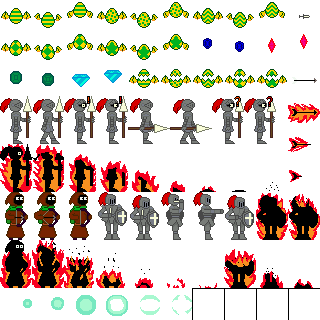
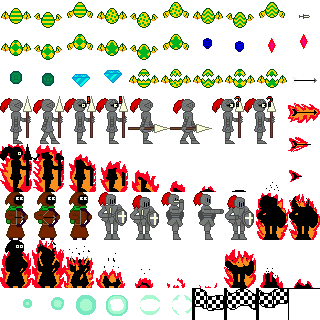
started with the flagpole

Changed region(s): [[0.5938, 0.875, 0.9062, 1.0]]

diff --git a/tamagon/src/tamagon/Flagpole.java b/tamagon/src/tamagon/Flagpole.java
@@ -1,0 +1,43 @@
+package tamagon;
+
+import java.awt.Graphics;
+
+public class Flagpole extends Entity {
+	
+	/**
+	 * Animation variables
+	 */
+	private int animationFrames = 0, maxFrame = 5, maxIndex = 2, animationIndex = 0;
+
+	/**
+	 * Ends the level
+	 * 
+	 * @param x
+	 * @param y
+	 * @param w
+	 * @param h
+	 */
+	public Flagpole(int x, int y, int w, int h) {
+		super(x, y, w, h);
+		// TODO Auto-generated constructor stub
+	}
+
+	@Override
+	public void render(Graphics g) {
+		animationFrames++;
+		
+		// Animation frames
+		if (animationFrames > maxFrame) {
+			animationFrames = 0;
+			animationIndex++;
+			if (animationIndex > maxIndex) {
+				animationIndex = 0;
+			}
+		}
+		
+		// Draw the sprite
+		g.drawImage(SpriteLoader.flagpole[animationIndex], (x * Game.scale - Camera.x), y * Game.scale - Camera.y, w * Game.scale,
+						h * Game.scale, null);
+	}
+
+}

diff --git a/tamagon/src/tamagon/SpriteLoader.java b/tamagon/src/tamagon/SpriteLoader.java
@@ -55,6 +55,11 @@ public class SpriteLoader {
 	static BufferedImage[] shieldParticle;
 	
 	/**
+	 * The flag pole finishes the round
+	 */
+	static BufferedImage[] flagpole;
+	
+	/**
 	 * Loads all entities sprite once
 	 */
 	public SpriteLoader() {
@@ -224,5 +229,13 @@ public class SpriteLoader {
 		shieldParticle[3] = entitySheet.getSprite(32*3, 288, 32, 32);
 		shieldParticle[4] = entitySheet.getSprite(32*4, 288, 32, 32);
 		shieldParticle[5] = entitySheet.getSprite(32*5, 288, 32, 32);
+		
+		
+		
+		//Flag pole
+		flagpole = new BufferedImage[3];
+		flagpole[0] = entitySheet.getSprite(192, 288, 32, 32);
+		flagpole[1] = entitySheet.getSprite(192+32, 288, 32, 32);
+		flagpole[2] = entitySheet.getSprite(192+64, 288, 32, 32);
 	}
 }

diff --git a/tamagon/src/tamagon/Level.java b/tamagon/src/tamagon/Level.java
@@ -275,6 +275,12 @@ public class Level {
 						Paladin paladin = new Paladin(x * dimension, (y * dimension) - 16, dimension, 48);
 						paladin.setMask(2, 16, 28, 18);
 						Game.enemies.add(paladin);
+					} else if (currentPixel == 0xFF000000) {
+						//Flagpole
+						tiles[x + (y * levelW)] = new Tile(x * dimension, y * dimension, Tile.woodWall);
+						Flagpole flagpole = new Flagpole(x * dimension, y * dimension, dimension, dimension);
+						flagpole.setMask(16, 31, 1, 1);
+						Game.entities.add(flagpole);
 					} else if (currentPixel == 0xFF785830) {
 						// Cavern floor
 						tiles[x + (y * levelW)] = new Collider(x * dimension, y * dimension, Tile.cavernFloor);
